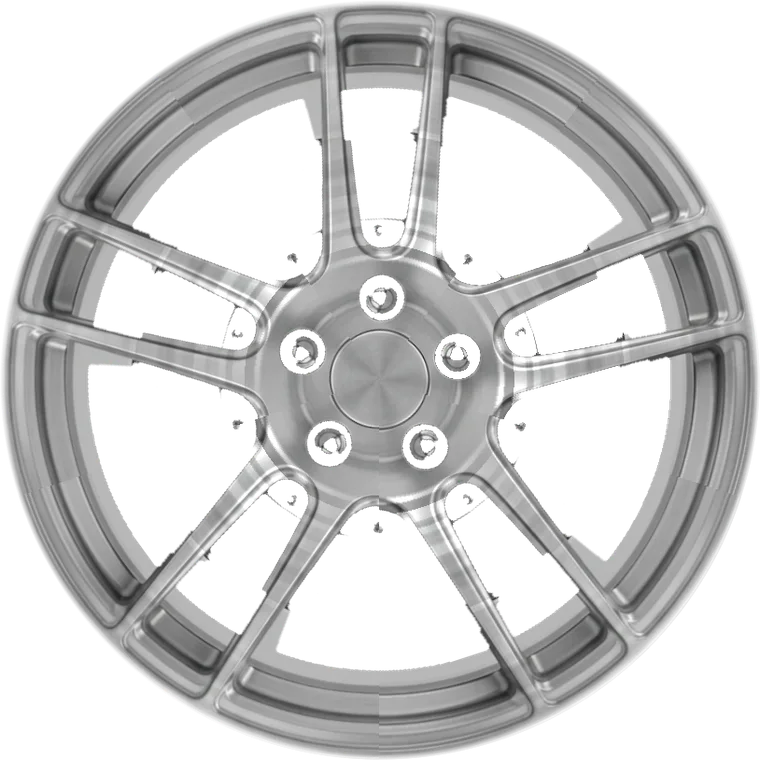
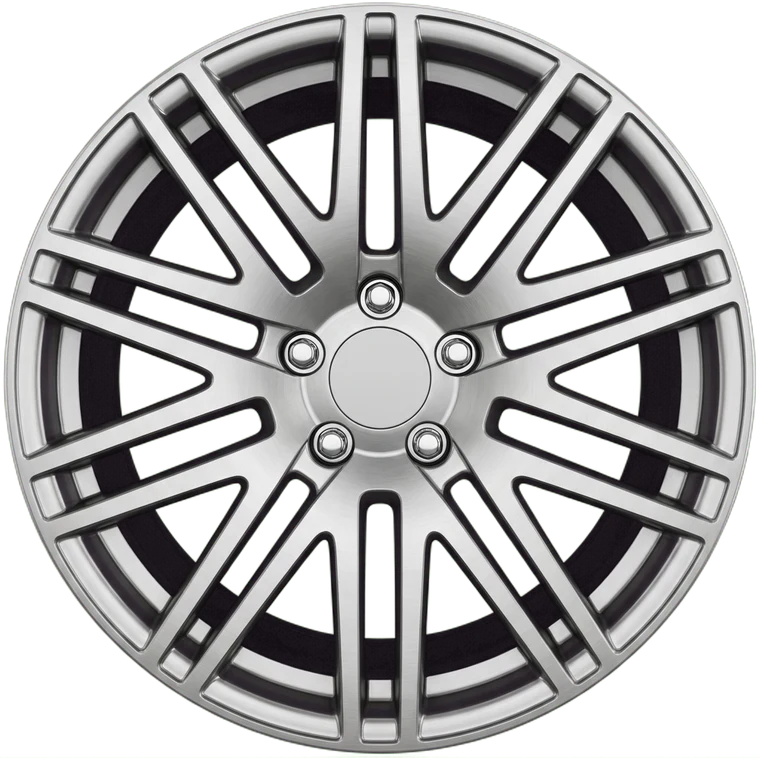
Replace wheel render with clean cutout and hide chat launcher in pinned systems section

diff --git a/components/home/shop-by-system.tsx b/components/home/shop-by-system.tsx
@@ -210,6 +210,7 @@ export function ShopBySystem({ title, systems, scrollHint, offsetSelector, botto
             inertia: false,
           },
           onRefresh: measure,
+          onToggle: (self) => document.documentElement.toggleAttribute("data-immersive", self.isActive),
           onUpdate: (self) => {
             const time = self.progress * tl.duration()
             let next = 0
@@ -225,6 +226,7 @@ export function ShopBySystem({ title, systems, scrollHint, offsetSelector, botto
 
         return () => {
           trigger.current = null
+          document.documentElement.removeAttribute("data-immersive")
         }
       })
       return () => mm.revert()

diff --git a/components/chat/chat-widget.tsx b/components/chat/chat-widget.tsx
@@ -85,7 +85,7 @@ export function ChatWidget() {
   }
 
   return (
-    <div className="chat-launcher fixed bottom-[calc(4.15rem+env(safe-area-inset-bottom))] right-3 transition-[bottom] duration-200 z-40 flex flex-col items-end gap-2.5 md:bottom-4 md:right-4">
+    <div data-open={open || undefined} className="chat-launcher fixed bottom-[calc(4.15rem+env(safe-area-inset-bottom))] right-3 transition-[bottom,translate,opacity] duration-300 z-40 flex flex-col items-end gap-2.5 md:bottom-4 md:right-4">
       {open && (
         <section
           aria-label={x.chat.title}

diff --git a/app/globals.css b/app/globals.css
@@ -426,3 +426,12 @@ details > summary::-webkit-details-marker {
     bottom: calc(7.75rem + env(safe-area-inset-bottom));
   }
 }
+
+/* The pinned "shop by system" frame owns the whole viewport, so the closed launcher steps aside. */
+html[data-immersive] .chat-launcher:not([data-open]) {
+  opacity: 0;
+  translate: calc(100% + 1.5rem) 0;
+  pointer-events: none;
+  visibility: hidden;
+  transition: bottom 200ms, translate 300ms, opacity 300ms, visibility 0s 300ms;
+}
